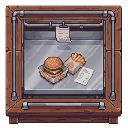
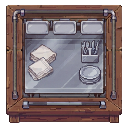
feat: add cheese and sauce

diff --git a/src/assets/stations.ts b/src/assets/stations.ts
@@ -2,7 +2,9 @@ import { Assets, type Texture } from "pixi.js";
 
 import bunShelfUrl from "../../assets/stations/bun-shelf.png";
 import cashRegisterUrl from "../../assets/stations/cash-register.png";
+import cheeseShelfUrl from "../../assets/stations/cheese-shelf.png";
 import pattyGrillUrl from "../../assets/stations/patty-grill.png";
+import sauceDispenserUrl from "../../assets/stations/sauce-dispenser.png";
 import servingCounterUrl from "../../assets/stations/serving-counter.png";
 import trashCanUrl from "../../assets/stations/trash-can.png";
 import veggieShelfUrl from "../../assets/stations/veggie-shelf.png";
@@ -11,8 +13,10 @@ export const STATION_TYPES = [
 	"bun-shelf",
 	"veggie-shelf",
 	"patty-grill",
+	"cheese-shelf",
 	"cash-register",
 	"serving-counter",
+	"sauce-dispenser",
 	"trash-can",
 ] as const;
 
@@ -24,8 +28,10 @@ const STATION_URLS: Record<StationType, string> = {
 	"bun-shelf": bunShelfUrl,
 	"veggie-shelf": veggieShelfUrl,
 	"patty-grill": pattyGrillUrl,
+	"cheese-shelf": cheeseShelfUrl,
 	"cash-register": cashRegisterUrl,
 	"serving-counter": servingCounterUrl,
+	"sauce-dispenser": sauceDispenserUrl,
 	"trash-can": trashCanUrl,
 };
 

diff --git a/src/config/recipes.ts b/src/config/recipes.ts
@@ -1,6 +1,13 @@
 import type { StationType } from "../assets/stations";
 
-export const INGREDIENTS = ["bun", "veg", "patty"] as const;
+export const INGREDIENTS = [
+	"bun",
+	"sauce",
+	"patty",
+	"cheese",
+	"salad",
+	"tomato",
+] as const;
 
 export type Ingredient = (typeof INGREDIENTS)[number];
 
@@ -10,15 +17,26 @@ export type Item = Ingredient | typeof ITEM_BURGER;
 
 export const INGREDIENT_STATIONS: Record<Ingredient, StationType> = {
 	bun: "bun-shelf",
-	veg: "veggie-shelf",
+	sauce: "sauce-dispenser",
 	patty: "patty-grill",
+	cheese: "cheese-shelf",
+	salad: "veggie-shelf",
+	tomato: "veggie-shelf",
 };
 
 export const SERVING_COUNTER = "serving-counter";
 
 export const CASH_REGISTER = "cash-register";
 
-export const RECIPE_BURGER: Ingredient[] = ["bun", "veg", "patty", "bun"];
+export const RECIPE_BURGER: Ingredient[] = [
+	"bun",
+	"sauce",
+	"patty",
+	"cheese",
+	"salad",
+	"tomato",
+	"bun",
+];
 
 export const RECIPES: Ingredient[][] = [RECIPE_BURGER];
 

diff --git a/src/config/field.ts b/src/config/field.ts
@@ -7,10 +7,12 @@ export interface FieldSlot {
 }
 
 export const FIELD_SLOTS: FieldSlot[] = [
-	{ station: "bun-shelf", x: 0.12, y: 0.24 },
-	{ station: "veggie-shelf", x: 0.12, y: 0.48 },
-	{ station: "patty-grill", x: 0.12, y: 0.72 },
-	{ station: "cash-register", x: 0.88, y: 0.24 },
-	{ station: "serving-counter", x: 0.88, y: 0.48 },
-	{ station: "trash-can", x: 0.88, y: 0.72 },
+	{ station: "bun-shelf", x: 0.12, y: 0.12 },
+	{ station: "patty-grill", x: 0.12, y: 0.37 },
+	{ station: "cheese-shelf", x: 0.12, y: 0.62 },
+	{ station: "veggie-shelf", x: 0.12, y: 0.87 },
+	{ station: "cash-register", x: 0.88, y: 0.12 },
+	{ station: "serving-counter", x: 0.88, y: 0.37 },
+	{ station: "sauce-dispenser", x: 0.88, y: 0.62 },
+	{ station: "trash-can", x: 0.88, y: 0.87 },
 ];
